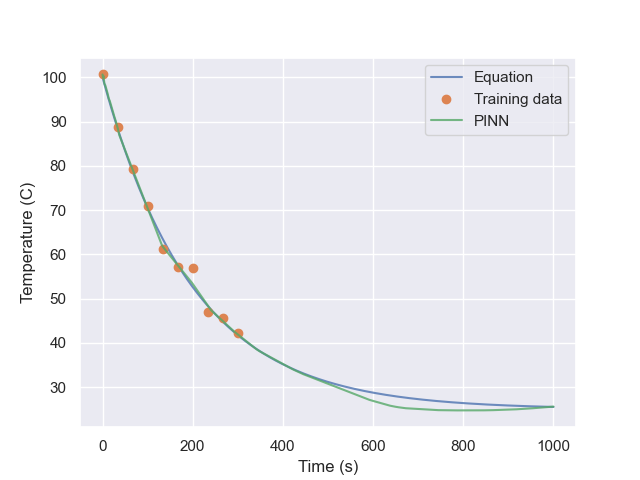
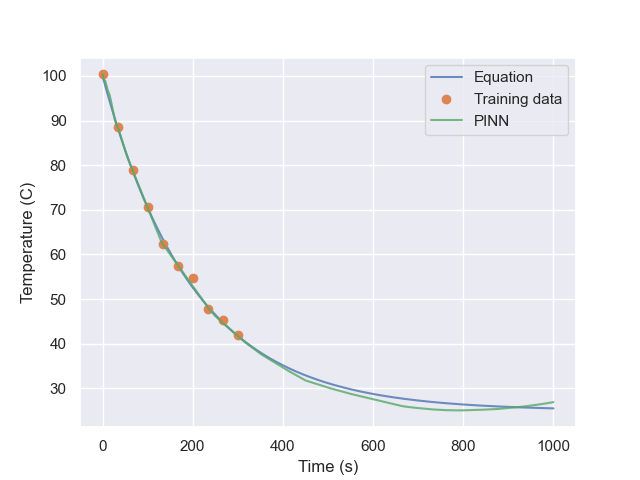
update

diff --git a/PINN/old_code/temp_pred_efi.py b/PINN/old_code/temp_pred_efi.py
@@ -3,9 +3,10 @@ import matplotlib.pyplot as plt
 import numpy as np
 import torch
 import torch.nn as nn
+from torch.nn import utils
 import torch.optim as optim
 import seaborn as sns
-from PINN.common import BaseNetwork, SparseDNN
+from PINN.common import BaseNetwork, SparseDNN, SGLD
 
 DEVICE = torch.device('cuda' if torch.cuda.is_available() else 'cpu')
 
@@ -59,13 +60,15 @@ class Net(nn.Module):
         self.net = BaseNetwork(input_size=input_dim, output_size=output_dim, hidden_layers=net_arch, activation_fn=nn.ReLU)
         self.parameter_size = self.net.parameter_size
         
-        self.inverse_net = SparseDNN(input_size=output_dim, output_size=self.parameter_size, hidden_layers=net_arch, activation_fn=nn.ReLU)
 
-    def _build_inverse_net(self, n_samples):
-        return SparseDNN(input_size=self.net.parameter_size, output_size=n_samples, hidden_layers=self.net_arch, activation_fn=nn.ReLU)
+    def _build_encoder(self, encoder_input_dim):
+        hidden_size = 2 * self.parameter_size
+        net_arch = [hidden_size, hidden_size]
+        self.encoder = SparseDNN(input_size=encoder_input_dim, output_size=self.parameter_size, hidden_layers=net_arch, activation_fn=nn.ReLU)
     
     def _initialize_latent(self, n_samples):
         self.Z = torch.randn(n_samples, 1).requires_grad_()
+        self.sampler = SGLD([self.Z], self.sgld_lr)
         
 
     def forward(self, x):
@@ -73,23 +76,72 @@ class Net(nn.Module):
 
     def fit(self, X, y):
         n_samples = y.shape[0]
+        variable_dim = X.shape[1]
+        encoder_input_dim = 2 + variable_dim
         
+        lambda_1 = 1
+        lambda_2 = 1
         
-        optimiser = optim.Adam(self.net.parameters(), lr=self.lr)
+        self._build_encoder(encoder_input_dim)
+        self._initialize_latent(n_samples)
+        
+        self.optimiser = optim.Adam(self.net.parameters(), lr=self.lr)
+        # sampler = 
         self.train()
         losses = []
         for ep in range(self.epochs):
-            optimiser.zero_grad()
-            outputs = self.forward(X)
-            loss = self.loss(y, outputs)
+            
+            ## 1. Latent variable sampling (Sample Z)
+            
+            thetas = self.encoder(torch.cat([X, y, self.Z], dim=1))
+            bar_theta = thetas.mean(dim=0)
+            tilde_y = self.net(X) + self.Z
+            
+            latent_loss = self.latent_loss(n_samples, lambda_1, lambda_2, y, tilde_y, thetas, bar_theta, self.Z)
+            
+            
+            self.sampler.zero_grad()
+            self.Z.backward(latent_loss)
+            self.sampler.step()
+            
+            ## 2. DNN weights update (Optimize W)
+            
+            
+            thetas = self.encoder(torch.cat([X, y, self.Z.detach()], dim=1))
+            bar_theta = thetas.mean(dim=0)
+            utils.vector_to_parameters(bar_theta, self.net.parameters())
+            tilde_y = self.net(X) + self.Z
+            encoder_loss = self.encoder_loss(n_samples, lambda_1, lambda_2, y, tilde_y, thetas, bar_theta, self.Z)
+            
+            self.optimiser.zero_grad()
+            encoder_loss.backward()
+            self.optimiser.step()
+            
+            ## 3. Loss calculation
+            
+            loss = self.loss(y, self.net(X))
             if self.loss2:
-                loss += self.loss2_weight + self.loss2_weight * self.loss2(self)
-            loss.backward()
-            optimiser.step()
+                loss += self.loss2_weight * self.loss2(self)
             losses.append(loss.item())
             if ep % int(self.epochs / 10) == 0:
                 print(f"Epoch {ep}/{self.epochs}, loss: {losses[-1]:.2f}")
         return losses
+    
+    def latent_loss(self, n_samples, lambda_1, lambda_2, y , tilde_y, thetas, bar_theta, Z):
+        return n_samples*lambda_2*self.loss(y,tilde_y)+lambda_1*n_samples*self.loss(thetas,bar_theta.repeat(n_samples,1))+n_samples*torch.mean(Z**2)/2
+    
+    def encoder_loss(self, n_samples, lambda_1, lambda_2, y , tilde_y, thetas, bar_theta, Z):
+        loss = n_samples*lambda_2*self.loss(y,tilde_y)+lambda_1*n_samples*self.loss(thetas,bar_theta.repeat(n_samples,1))
+        prior_loss = - self.encoder.mixture_gaussian_prior()
+        
+        loss += prior_loss
+        if self.loss2 is not None:
+            loss += self.loss2_weight * self.loss2(self)
+        
+            
+    
+    def parameters(self, recurse: bool = True) -> np.Iterator[nn.Parameter]:
+        return super().parameters(recurse)
 
     def predict(self, X):
         self.eval()
@@ -106,7 +158,7 @@ temps = eq(times)
 
 # Make training data
 n_samples = 10
-obs_sd = 2
+obs_sd = 1
 t = torch.linspace(0, 300, 10).reshape(n_samples, -1)
 T = eq(t) +  obs_sd * torch.randn(10).reshape(n_samples, -1)
 

diff --git a/PINN/old_code/temp_pred.py b/PINN/old_code/temp_pred.py
@@ -93,7 +93,7 @@ temps = eq(times)
 # Make training data
 n_samples = 10
 t = torch.linspace(0, 300, 10).reshape(n_samples, -1)
-T = eq(t) +  2 * torch.randn(10).reshape(n_samples, -1)
+T = eq(t) +  torch.randn(10).reshape(n_samples, -1)
 
 # print(t.shape, T.shape)
 # print(temps.shape, times.shape)
